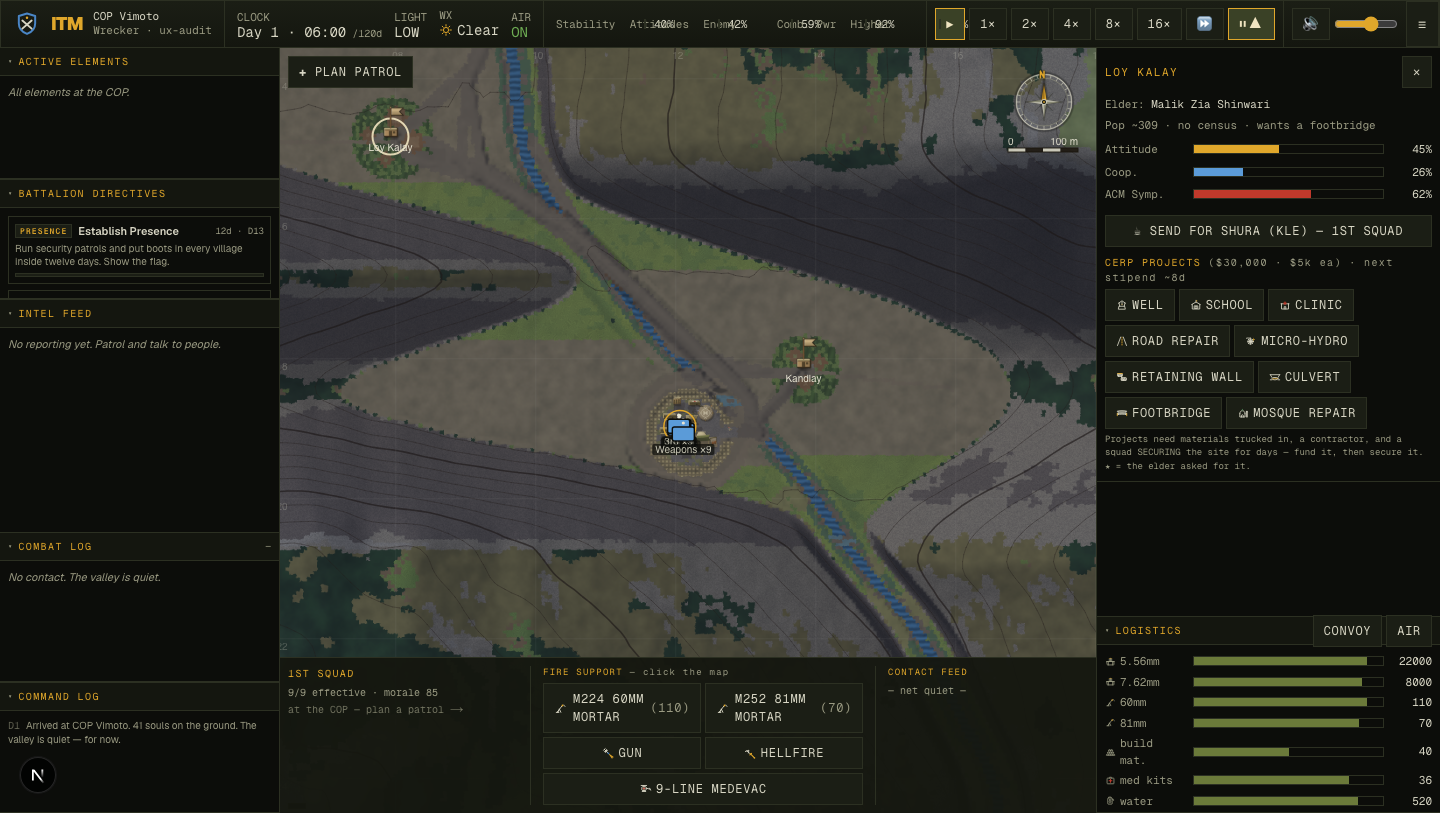
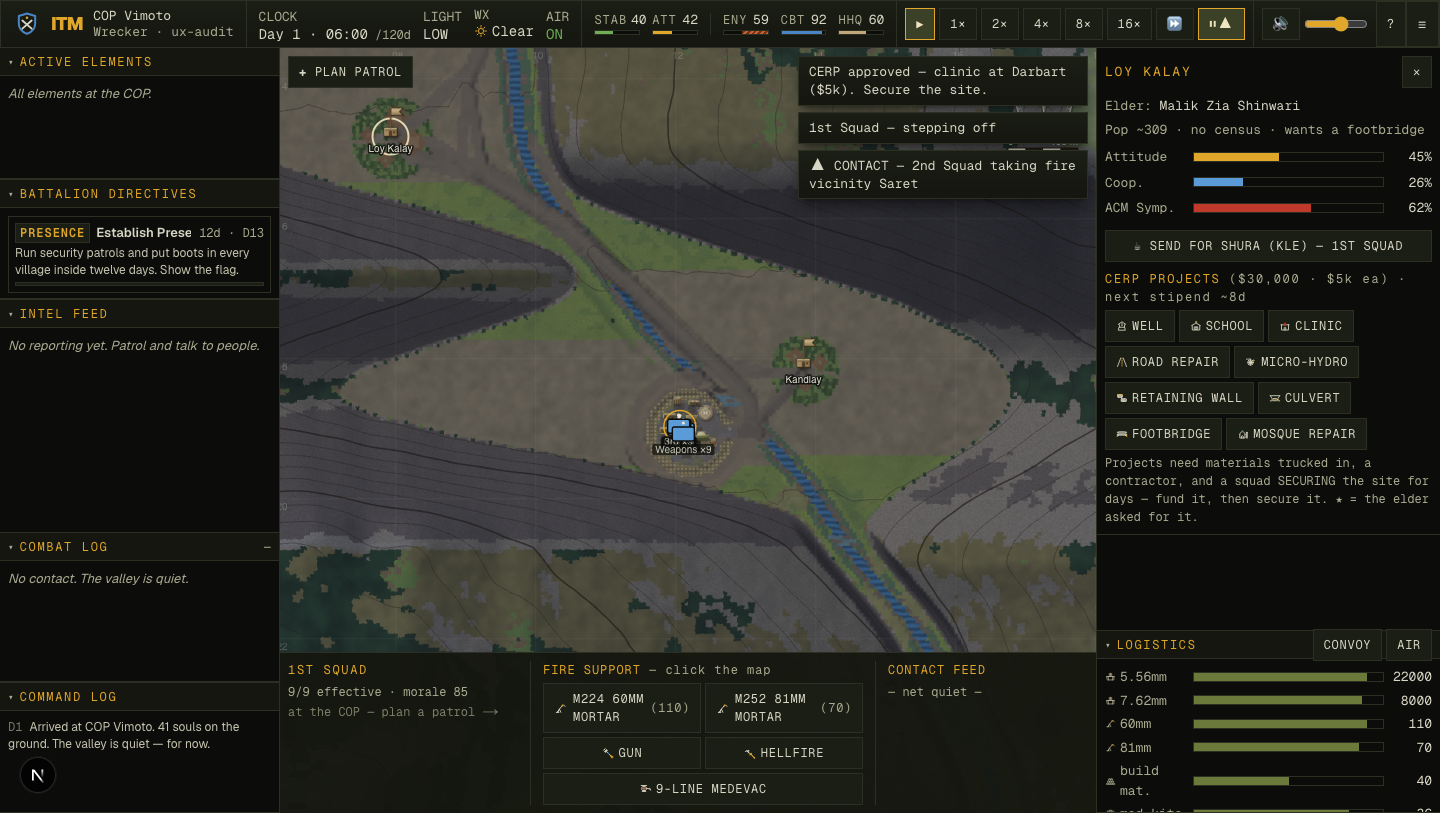
feat(ux): brighten left-column log narrative (--ink-2) — closes the re-judge's top residual
Round 4, driven by the adversarial paired re-judge. The 5-persona panel
unanimously preferred the redesign (overall 58.6→82.4, legibility 51→82,
accessibility-feel 40→74.6, hierarchy 56.8→84.2; mean perceived lift 2.3×),
but every judge flagged the SAME residual: the left-column running logs
(Combat/Command/Directives) were still dim olive-on-near-black — the floor
raised SIZE but not contrast for narrative you scan mid-fight.

- new --ink-2 (#c6c4b0): a running-narrative tone, brighter than the dim
  secondary label colour, below primary ink so hierarchy survives.
- applied to Command Log messages, Combat Log generic lines, directive
  descriptions; D-day/source metadata stays dim.

Also: harness gains an --a11y mode (focus-trap + Esc-to-close assertions:
ALL 6 PASS) and focus-ring / left+right column crops for the report.

Defect score holds at 1; tsc + build (exit 0) + lint clean.

diff --git a/components/screens/DeployScreen.tsx b/components/screens/DeployScreen.tsx
@@ -130,7 +130,7 @@ function kindStyle(kind: string): string {
     case "casualty": return "text-tan border-tan";
     case "contact":  return "text-amber border-amber";
     case "support":  return "text-us border-us";
-    default:         return "text-inkdim border-line";
+    default:         return "text-ink2 border-line";
   }
 }
 
@@ -444,7 +444,7 @@ function DirectivesBody() {
                   {left >= 0 ? `${left}d` : "OVERDUE"} · D{d.deadlineDay}
                 </span>
               </div>
-              <div className="text-inkdim text-[10px] leading-snug mt-0.5">{d.desc}</div>
+              <div className="text-ink2 text-[10px] leading-snug mt-0.5">{d.desc}</div>
               <div className="h-1 bg-panel2 mt-1 border border-line">
                 <div className="h-full bg-olive" style={{ width: `${Math.round(d.progress * 100)}%` }} />
               </div>
@@ -516,7 +516,7 @@ function CommandLogBody() {
   return (
     <div className="p-2 flex flex-col gap-0.5">
       {lines.map((l) => (
-        <div key={l.id} className={`text-[10px] leading-snug ${l.kind === "objective" ? "text-amber" : "text-inkdim"}`}>
+        <div key={l.id} className={`text-[10px] leading-snug ${l.kind === "objective" ? "text-amber" : "text-ink2"}`}>
           <span className="font-mono opacity-60">D{l.day} </span>{l.msg}
         </div>
       ))}

diff --git a/app/globals.css b/app/globals.css
@@ -7,6 +7,7 @@
   --line: #2c3022;
   --ink: #d8d6c4;
   --ink-dim: #aaaa90; /* nudged brighter so secondary mono text clears WCAG AA on the darkest panel (was #9a9a82 → 3.7:1) */
+  --ink-2: #c6c4b0; /* running-narrative tier: brighter than dim for log/directive text you scan mid-fight, below primary ink so hierarchy survives */
   --olive: #6b7a3a;
   --tan: #c2a878;
   --amber: #e0a72b;
@@ -25,6 +26,7 @@
   --color-line: var(--line);
   --color-ink: var(--ink);
   --color-inkdim: var(--ink-dim);
+  --color-ink2: var(--ink-2);
   --color-olive: var(--olive);
   --color-tan: var(--tan);
   --color-amber: var(--amber);
